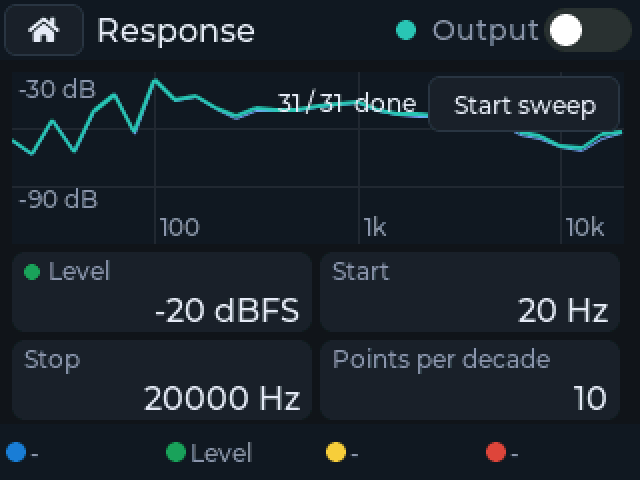
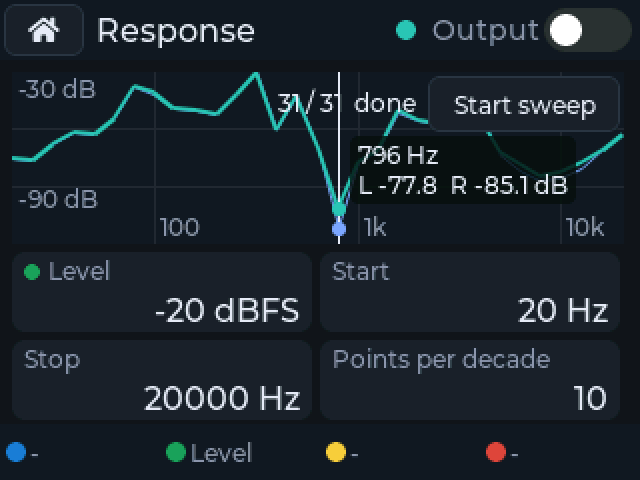
Panel: measurement cursor on the Response plot; docs updated
- Touching the plot, or moving a finger along it, puts a cursor on the
  nearest measured point: a line, a dot on each channel, and a box with
  the point's frequency and both levels, beside the line on the side
  with room. The plot no longer passes a finger's movement on to the
  page's scrolling. The cursor stays on its point through the next
  sweep. "cursor <point>" on the USB port places it for screenshots.
- Manual: the cursor in the front panel chapter, a new Response
  picture with it, and that the panel follows changes from the pots,
  the PC application and scripts live. The panel guide, the changelog
  and the README follow.

Tried on the user's CYD.

Changed region(s): [[0.0, 0.1562, 0.9688, 0.5], [0.7812, 0.3125, 0.8125, 0.3438], [0.75, 0.2812, 0.7812, 0.3125]]

diff --git a/firmware/AudioDspLabPanel/Ui.cpp b/firmware/AudioDspLabPanel/Ui.cpp
@@ -94,6 +94,13 @@ static lv_obj_t *plotBottomLabel;
 static std::vector<lv_point_precise_t> leftPoints;
 static std::vector<lv_point_precise_t> rightPoints;
 static uint32_t drawnPoints = 0xFFFFFFFF;
+// the measurement cursor: a line on the point nearest the touch, a dot on
+// each channel, and the point's frequency and levels
+static lv_obj_t *cursorLine;
+static lv_obj_t *cursorDots[2];
+static lv_obj_t *cursorLabel;
+static int cursorIndex = -1;            // the point, -1 none
+static float plotTop = 0;               // the level at the plot's top edge
 
 // the editor
 static lv_obj_t *editor;
@@ -607,10 +614,70 @@ static int plotX(float hertz) {
   return (int)lroundf((log10f(fmaxf(hertz, 20)) - log10f(20)) / 3.0f * (PLOT_WIDTH - 1));
 }
 
+static int plotY(float level) {
+  return (int)lroundf(constrain((plotTop - level) / PLOT_RANGE_DB, 0.0f, 1.0f) * (PLOT_HEIGHT - 1));
+}
+
+static String hertzText(float hertz) {
+  char text[24];
+  if (hertz >= 1000) snprintf(text, sizeof(text), "%.2f kHz", hertz / 1000);
+  else snprintf(text, sizeof(text), "%.0f Hz", hertz);
+  return String(text);
+}
+
+// the cursor where cursorIndex says, or hidden while there is no such point
+static void drawCursor() {
+  if (cursorLine == nullptr) return;
+  if (cursorIndex < 0 || cursorIndex >= (int)board.points.size()) {
+    lv_obj_add_flag(cursorLine, LV_OBJ_FLAG_HIDDEN);
+    lv_obj_add_flag(cursorLabel, LV_OBJ_FLAG_HIDDEN);
+    for (lv_obj_t *dot : cursorDots) lv_obj_add_flag(dot, LV_OBJ_FLAG_HIDDEN);
+    return;
+  }
+  const SweepPoint &point = board.points[cursorIndex];
+  const int x = plotX(point.hertz);
+  lv_obj_set_pos(cursorLine, x, 0);
+  lv_obj_remove_flag(cursorLine, LV_OBJ_FLAG_HIDDEN);
+  const float levels[2] = { point.left, point.right };
+  for (int channel = 0; channel < 2; channel++) {
+    lv_obj_set_pos(cursorDots[channel], x - 3, plotY(levels[channel]) - 3);
+    lv_obj_remove_flag(cursorDots[channel], LV_OBJ_FLAG_HIDDEN);
+  }
+  char text[64];
+  snprintf(text, sizeof(text), "%s\nL %.1f  R %.1f dB", hertzText(point.hertz).c_str(), point.left, point.right);
+  lv_label_set_text(cursorLabel, text);
+  lv_obj_remove_flag(cursorLabel, LV_OBJ_FLAG_HIDDEN);
+  // beside the line, on the side with room
+  lv_obj_update_layout(cursorLabel);
+  const int width = lv_obj_get_width(cursorLabel);
+  lv_obj_set_pos(cursorLabel, x + 6 + width < PLOT_WIDTH ? x + 6 : x - 6 - width, 32);
+}
+
+// a touch on the plot, or a finger moving on it: the cursor to the nearest point
+static void onPlot(lv_event_t *e) {
+  if (board.points.empty()) return;
+  lv_point_t touch;
+  lv_indev_get_point(lv_indev_active(), &touch);
+  lv_area_t area;
+  lv_obj_get_coords((lv_obj_t *)lv_event_get_current_target(e), &area);
+  const int x = touch.x - area.x1;
+  int nearest = 0;
+  for (size_t i = 1; i < board.points.size(); i++) {
+    if (abs(plotX(board.points[i].hertz) - x) < abs(plotX(board.points[nearest].hertz) - x)) nearest = (int)i;
+  }
+  cursorIndex = nearest;
+  drawCursor();
+}
+
 static void buildAnalyzerHeader() {
   lv_obj_t *plot = lv_obj_create(content);
   plainBox(plot, 0x141920);
   lv_obj_set_size(plot, PLOT_WIDTH, PLOT_HEIGHT);
+  // the plot takes touches for its cursor; a finger moving on it does not scroll the page
+  lv_obj_add_flag(plot, LV_OBJ_FLAG_CLICKABLE);
+  lv_obj_remove_flag(plot, LV_OBJ_FLAG_SCROLL_CHAIN);
+  lv_obj_add_event_cb(plot, onPlot, LV_EVENT_PRESSED, nullptr);
+  lv_obj_add_event_cb(plot, onPlot, LV_EVENT_PRESSING, nullptr);
   for (float hertz : { 100.0f, 1000.0f, 10000.0f }) gridLine(plot, plotX(hertz), 0, 1, PLOT_HEIGHT);
   for (int i = 1; i < 3; i++) gridLine(plot, 0, i * PLOT_HEIGHT / 3, PLOT_WIDTH, 1);
   const char *const marks[] = { "100", "1k", "10k" };
@@ -629,6 +696,26 @@ static void buildAnalyzerHeader() {
   plotLeft = lv_line_create(plot);
   lv_obj_set_style_line_color(plotLeft, lv_color_hex(COLOUR_ACCENT), 0);
   lv_obj_set_style_line_width(plotLeft, 2, 0);
+
+  cursorLine = gridLine(plot, 0, 0, 1, PLOT_HEIGHT);
+  lv_obj_set_style_bg_color(cursorLine, lv_color_hex(COLOUR_TEXT), 0);
+  const uint32_t dotColours[2] = { COLOUR_ACCENT, 0x7AA7FF };
+  for (int channel = 0; channel < 2; channel++) {
+    cursorDots[channel] = lv_obj_create(plot);
+    plainBox(cursorDots[channel], dotColours[channel]);
+    lv_obj_set_size(cursorDots[channel], 7, 7);
+    lv_obj_set_style_radius(cursorDots[channel], LV_RADIUS_CIRCLE, 0);
+  }
+  cursorLabel = label(plot, "", &lv_font_montserrat_12, COLOUR_TEXT);
+  lv_obj_set_style_bg_color(cursorLabel, lv_color_hex(0x0E1116), 0);
+  lv_obj_set_style_bg_opa(cursorLabel, LV_OPA_80, 0);
+  lv_obj_set_style_pad_hor(cursorLabel, 4, 0);
+  lv_obj_set_style_pad_ver(cursorLabel, 2, 0);
+  lv_obj_set_style_radius(cursorLabel, 4, 0);
+  for (lv_obj_t *part : { cursorLine, cursorDots[0], cursorDots[1], cursorLabel }) {
+    lv_obj_remove_flag(part, LV_OBJ_FLAG_CLICKABLE);
+    lv_obj_add_flag(part, LV_OBJ_FLAG_HIDDEN);
+  }
 
   // the key and the progress in the plot's top corner: the tiles get the room
   sweepButton = button(plot, "Start sweep", 96, 28);
@@ -655,6 +742,7 @@ static void refreshAnalyzer() {
   for (const SweepPoint &point : board.points) loudest = fmaxf(loudest, fmaxf(point.left, point.right));
   const float top = board.points.empty() ? 0 : ceilf(loudest / 10) * 10;
   const float bottom = top - PLOT_RANGE_DB;
+  plotTop = top;
   lv_label_set_text(plotTopLabel, (String((int)top) + " dB").c_str());
   lv_label_set_text(plotBottomLabel, (String((int)bottom) + " dB").c_str());
   leftPoints.clear();
@@ -669,6 +757,7 @@ static void refreshAnalyzer() {
   }
   lv_line_set_points(plotLeft, leftPoints.data(), leftPoints.size());
   lv_line_set_points(plotRight, rightPoints.data(), rightPoints.size());
+  drawCursor();
 }
 
 // --- curves: the equalizer's response, the synthesizer's filter and envelopes ----------------
@@ -938,6 +1027,7 @@ static void rebuild() {
   potControlSwitch = infoLabel = startingLabel = nullptr;
   radioStation = radioTitle = radioState = nullptr;
   sweepButton = sweepLabel = plotLeft = plotRight = plotTopLabel = plotBottomLabel = nullptr;
+  cursorLine = cursorLabel = cursorDots[0] = cursorDots[1] = nullptr;
   for (lv_obj_t *&key : sectionKeys) key = nullptr;
   curve = CurvePlot();
   curveKind = CURVE_NONE;
@@ -1169,7 +1259,8 @@ void uiPoll() {
 }
 
 // commands on the USB port, for screenshots and tests: "page home|app|settings",
-// "section osc|filter|env|lfo|perf|all", "edit <parameter>", "close"
+// "section osc|filter|env|lfo|perf|all", "edit <parameter>", "close",
+// "cursor <point>" (the Response plot's cursor on that point, -1 none)
 void uiCommand(const String &line) {
   if (line.startsWith("page ")) {
     const String name = line.substring(5);
@@ -1189,6 +1280,9 @@ void uiCommand(const String &line) {
     if (index >= 0) editorOpen(index);
   } else if (line == "close") {
     editorClose();
+  } else if (line.startsWith("cursor ")) {
+    cursorIndex = line.substring(7).toInt();
+    drawCursor();
   } else {
     Serial.printf("? %s\n", line.c_str());
     return;

diff --git a/docs/Panel.md b/docs/Panel.md
@@ -54,7 +54,7 @@ The panel sends only the newest value while you hold a key, so it never falls be
 
 **Radio.** The station playing in large letters, the stream title running below it, and the connection (playing, connecting, no network). Eight keys with the stations' names switch the station; the volume is the one tile below them, the bands are on the pots and the knob strip.
 
-**Response.** The plot of the last sweep, the left channel in teal and the right in blue, from 20 Hz to 20 kHz, the 60 dB below its loudest point. **Start sweep** in the plot's corner starts a sweep from the start to the stop frequency (it switches the output on) and turns into **Stop** while it runs; beside it the points measured so far. The sweep's settings are the tiles below.
+**Response.** The plot of the last sweep, the left channel in teal and the right in blue, from 20 Hz to 20 kHz, the 60 dB below its loudest point. **Start sweep** in the plot's corner starts a sweep from the start to the stop frequency (it switches the output on) and turns into **Stop** while it runs; beside it the points measured so far. The sweep's settings are the tiles below. Touch the plot, or move a finger along it, for the **cursor**: a line on the nearest measured point, a dot on each channel, and the point's frequency and levels beside it.
 
 **Synth.** Keys above the tiles choose a section: **Osc** (the three oscillators and the noise), **Filter** (cutoff, emphasis, the contour, key tracking), **Env** (the loudness envelope), **LFO** (both LFOs, PWM, the filter's LFO), **Perf** (glide, bend, velocity, volume, the MIDI channel), or **All**. **Filter** shows the filter's response at middle C, solid at the cutoff and dashed where the contour takes it at its peak; **Env** the loudness envelope, solid, and the filter's contour, dashed, from the key down through a held stretch to the end of the release.
 
@@ -71,5 +71,5 @@ Anyone on your network can reach the board this way, as anyone with the USB cabl
 - **Network:** `Wireless.cpp` joins the WiFi and serves TCP port 7000; `Link.cpp` shares the cable between the PC and the screens. LVGL takes its memory from the C heap (`lv_conf.h`): a static pool and WiFi do not fit the ESP32's DRAM together.
 - **Log:** the CYD's USB port (115200 baud) logs the link's state and every touch: its raw readings and the screen position they map to. The touch calibration, the raw values at the screen's edges, is in `Config.h`; tap the corners and compare if touches land beside their target on your CYD.
 - **The display's orientation and colour order** are set in `displayBegin()`: 270° and RGB order suit the tested CYD.
-- **Commands and screenshots:** the USB port takes a command per line: `page home|app|settings`, `section osc|filter|env|lfo|perf|all`, `edit <parameter>`, `close`, and `shot`, which draws the screen again and sends its pixels. `tools/Capture-PanelScreen.ps1 -Port COM18 -Path screen.png -Command 'page settings'` turns them into a PNG (enlarged twice, at 192 dpi); the manual's pictures of the panel are made so.
+- **Commands and screenshots:** the USB port takes a command per line: `page home|app|settings`, `section osc|filter|env|lfo|perf|all`, `edit <parameter>`, `close`, `cursor <point>` (the Response plot's cursor; -1 hides it), and `shot`, which draws the screen again and sends its pixels. `tools/Capture-PanelScreen.ps1 -Port COM18 -Path screen.png -Command 'page settings'` turns them into a PNG (enlarged twice, at 192 dpi); the manual's pictures of the panel are made so.
 - **Text:** LVGL's fonts carry ASCII only, so the panel spells accented letters from the board (stream titles, station names) without accents: "ö" as "oe", "é" as "e".

diff --git a/docs/Manual.md b/docs/Manual.md
@@ -564,7 +564,7 @@ Wiring, power and flashing are in [the front panel guide](Panel.md). In short: C
 
 ![Home: the six applications, the running one in teal, Pot control, and the knob strip](images/panel/home.png)
 
-The panel connects by itself: "Connecting to the board" until the board answers, then the home screen. The six keys start an application and open its page; the running one is teal. **Pot control** switches whether the board's pots set values.
+The panel connects by itself: "Connecting to the board" until the board answers, then the home screen. It follows the board live: whatever the pots, the PC application or a script changes appears on the panel at once. The six keys start an application and open its page; the running one is teal. **Pot control** switches whether the board's pots set values.
 
 Every screen has the same frame. The top bar shows the page's name, a dot that is teal while the link stands (red without it), and, on an application's page, the **Output** switch and the house key back home. The **knob strip** at the bottom names what each pot plays now, in the knob colours: P1 blue, P2 green, P3 yellow, P4 red. Tap a knob there to set that value on the panel. The CYD's LED is green while the link stands, red without it, and amber while a synthesizer note sounds.
 
@@ -592,9 +592,11 @@ In the editor **−** and **+** step the value; hold them to repeat, and after a
 
 **Radio.** The station playing, its stream title running below it, and the connection: playing with its sample rate, connecting, or no network. The eight station keys carry the stations' names; the volume is the tile below them, and bass, middle and treble are on the pots and in the knob strip. Station names and URLs, and WiFi networks, are entered in the PC application. The panel's font has no accents: "Zwischentöne" reads "Zwischentoene".
 
-![Response: the last sweep, Start sweep in the plot's corner, the sweep's settings](images/panel/response.png)
+![Response: the last sweep with the cursor on one of its points, Start sweep in the plot's corner](images/panel/response.png)
 
 **Response.** The plot of the last sweep, the left channel teal and the right blue, from 20 Hz to 20 kHz, scaled to the 60 dB below its loudest point. **Start sweep** in the plot's corner starts a sweep and switches the output on; it reads **Stop** while the sweep runs, and the points measured stand beside it. The start and stop frequencies, the points per decade and the level are the tiles below.
+
+**The cursor.** Touch the plot, or move a finger along it: a line jumps to the nearest measured point, a dot marks it on each channel, and a box beside the line gives the point's frequency and both levels. The cursor stays where you leave it; during the next sweep it shows again as soon as the sweep reaches its point. (In the PC application, the mouse over the plot does the same.)
 
 ![The synthesizer's filter section: the response at the cutoff, dashed at the contour's peak](images/panel/synth-filter.png)
 

diff --git a/CHANGELOG.md b/CHANGELOG.md
@@ -4,7 +4,8 @@
 
 - A second protocol port for a front panel (an ESP32 CYD display board): UART2 on GPIO37 (RX) and GPIO4 (TX) at 115200 baud. The PC application and the panel can work side by side; a value one sets reaches the other as an event. The synthesizer's MIDI port no longer claims GPIO4.
 - A front panel on an ESP32-2432S028R ("CYD") display board: the home screen, each application's parameters as tiles with a value editor, the output switch, and a knob strip in the knob colours whose knobs open the value their pot plays; the equalizer's curve, station keys with names and the stream title for the radio, Start/Stop, progress and a plot for the analyzer's sweep, section keys with the filter's and the envelopes' graphs for the synthesizer, and a settings screen (pot control, power-up, brightness).
-- WiFi control through the front panel: the panel joins the board's WiFi networks (`wifi secrets`, panel port only) and takes the PC application on TCP port 7000 (`audio-dsp-lab.local`); the application's port list offers "Network: <address>", set up in the WiFi dialog's new Front panel section. The board's new `panel` request and `! wifi` / `! panel` events serve it. The panel firmware now builds with the Huge APP partition scheme. It connects and reconnects by itself (docs/Panel.md). `Flash-Panel.cmd` flashes it; the release carries its image.
+- WiFi control through the front panel: the panel joins the board's WiFi networks (`wifi secrets`, panel port only) and takes the PC application on TCP port 7000 (`audio-dsp-lab.local`); the application's port list offers "Network: <address>", set up in the WiFi dialog's new Front panel section. The board's new `panel` request and `! wifi` / `! panel` events serve it. The panel firmware now builds with the Huge APP partition scheme.
+- The panel's Response plot has a measurement cursor: touch or drag on it for the nearest point's frequency and both levels. It connects and reconnects by itself (docs/Panel.md). `Flash-Panel.cmd` flashes it; the release carries its image.
 
 ## 1.0 — first public release
 

diff --git a/README.md b/README.md
@@ -50,7 +50,7 @@ Step by step: **[Installation guide](docs/Installation.md)**.
 | [Manual](docs/Manual.md) | Every application, the pots, stored settings, power-up, the synthesizer in depth, troubleshooting |
 | [Protocol](docs/Protocol.md) | The serial protocol: commands, events, every parameter; for scripts and other front ends |
 | [SigmaStudio](docs/SigmaStudio.md) | Your own DSP programs on the board; the built-in applications' projects |
-| [Front panel](docs/Panel.md) | A touch panel on an ESP32 "CYD" display board: wiring, flashing, use |
+| [Front panel](docs/Panel.md) | A touch panel on an ESP32 "CYD" display board, and WiFi control through it: wiring, flashing, use |
 | [Building from source](docs/Building.md) | Firmware and application builds, tests, releases, code structure |
 
 ## Requirements
